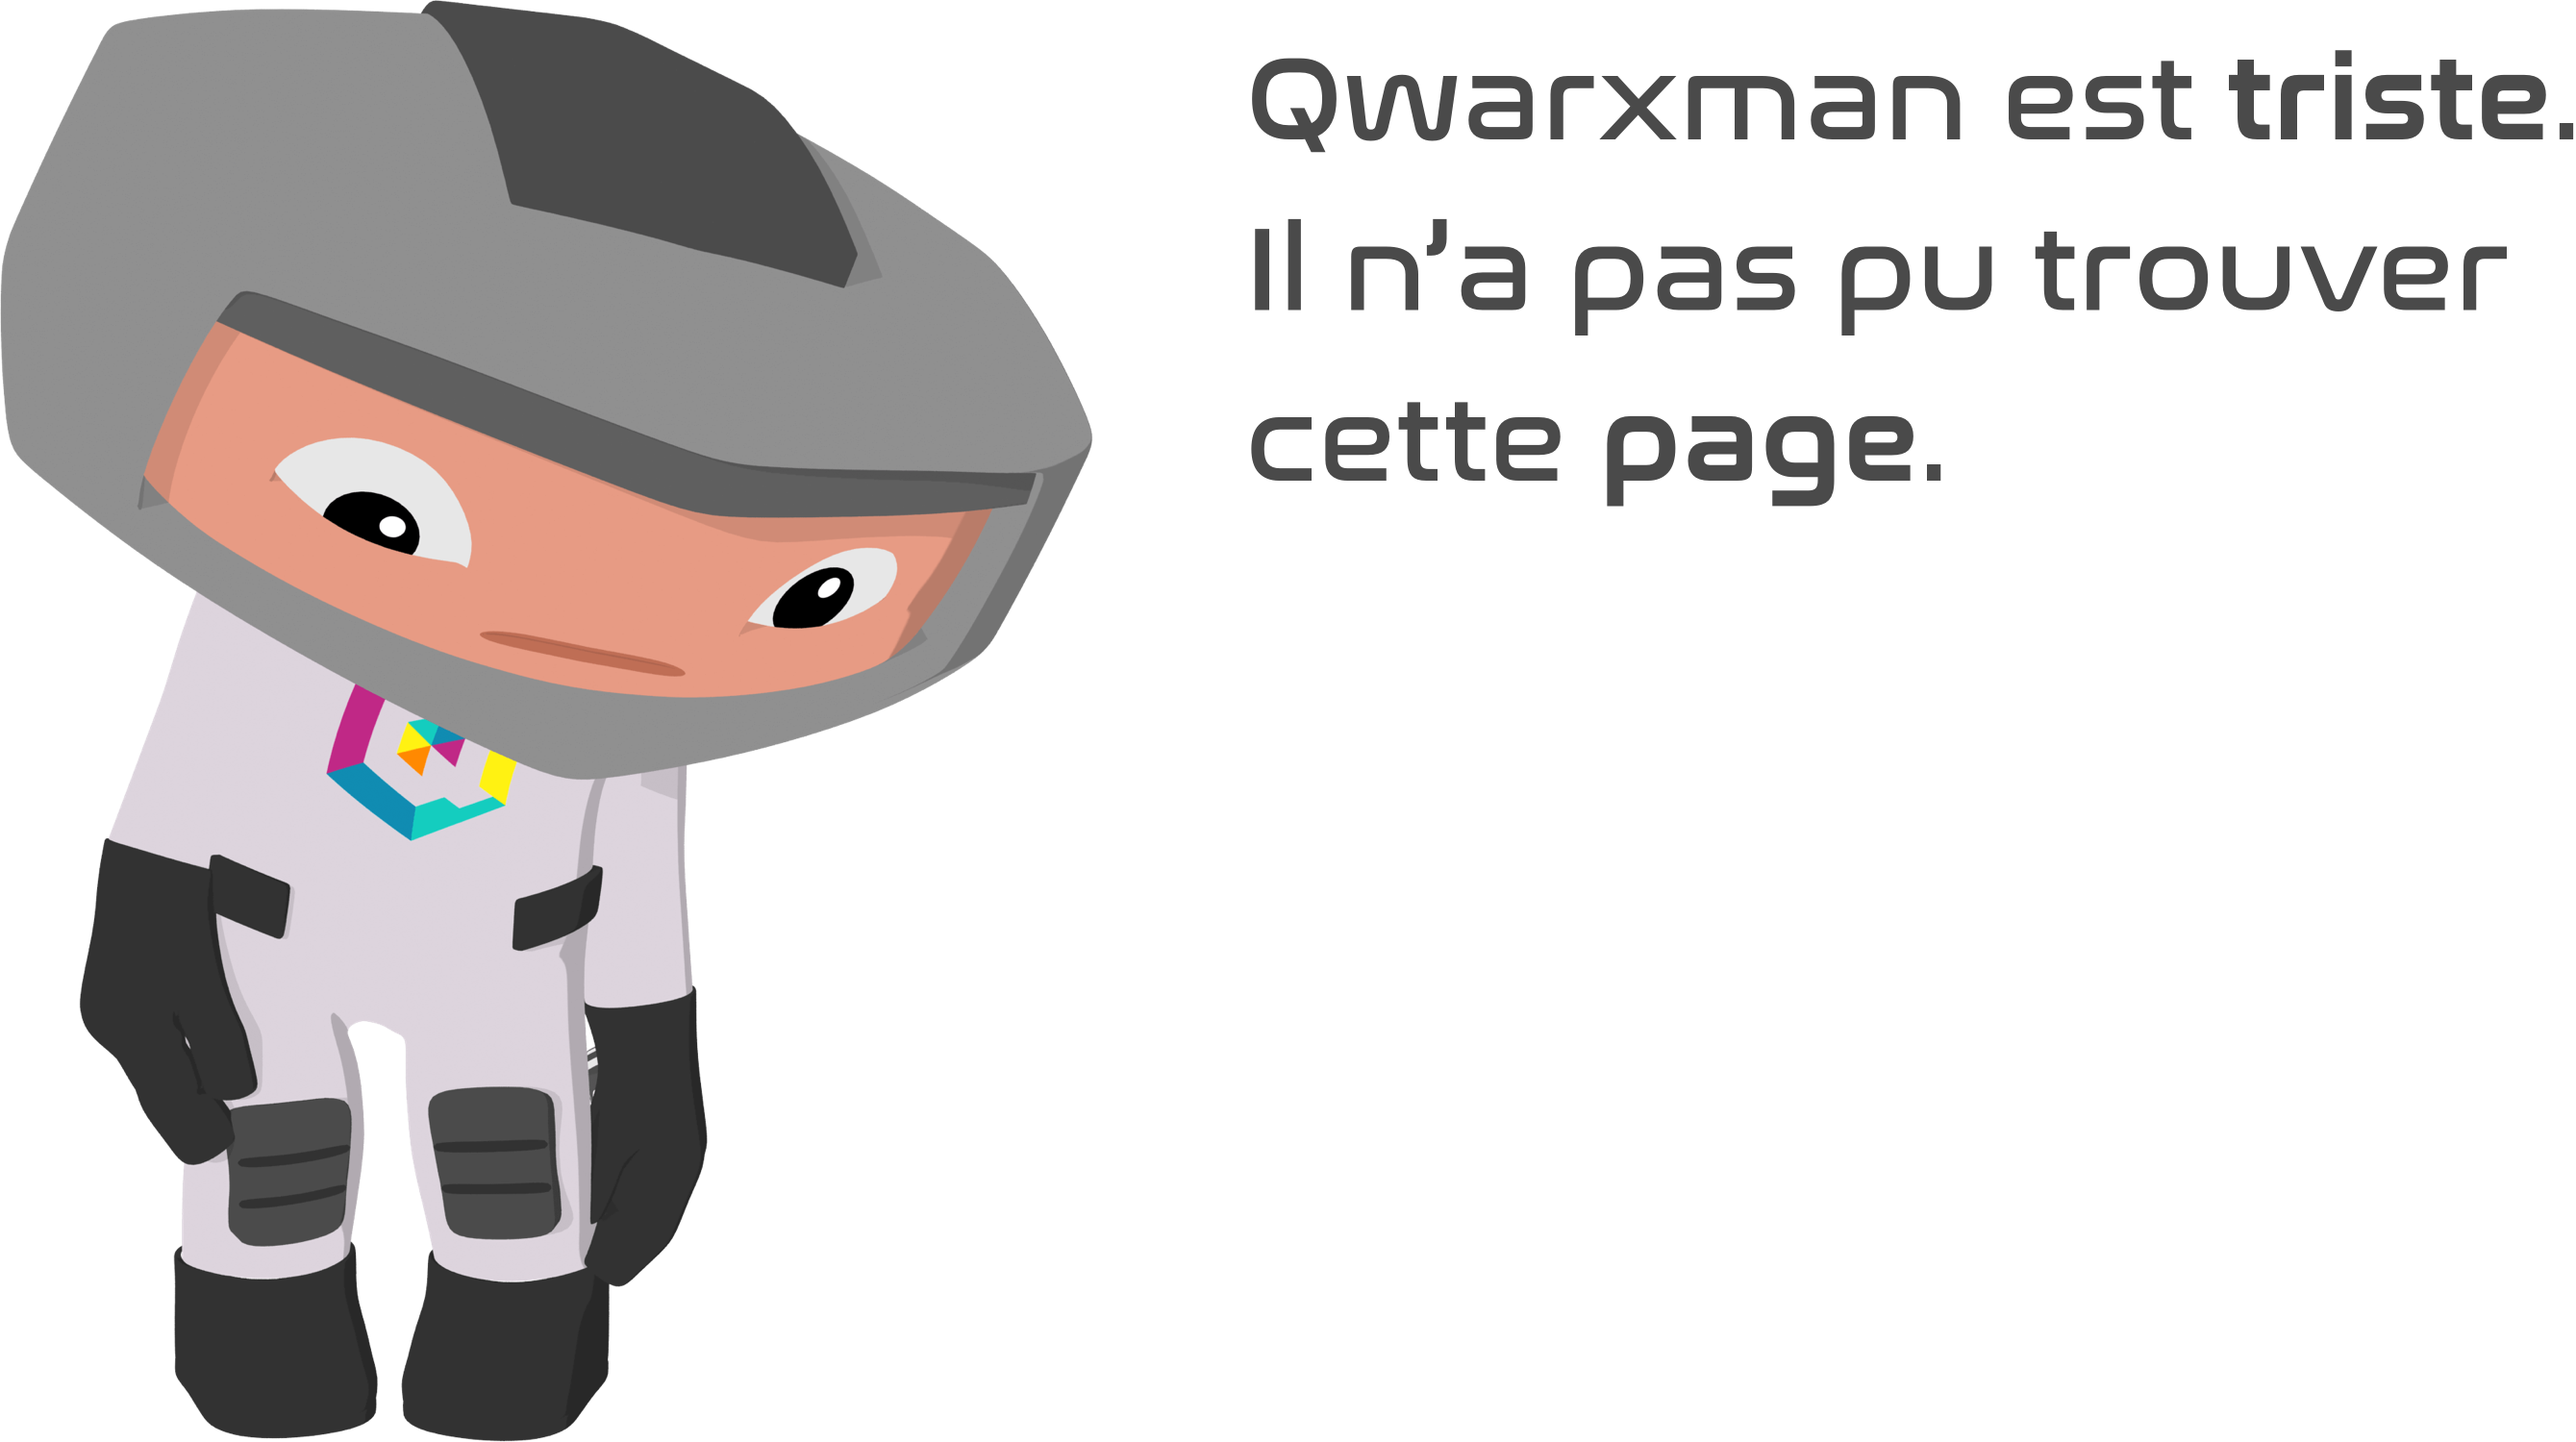
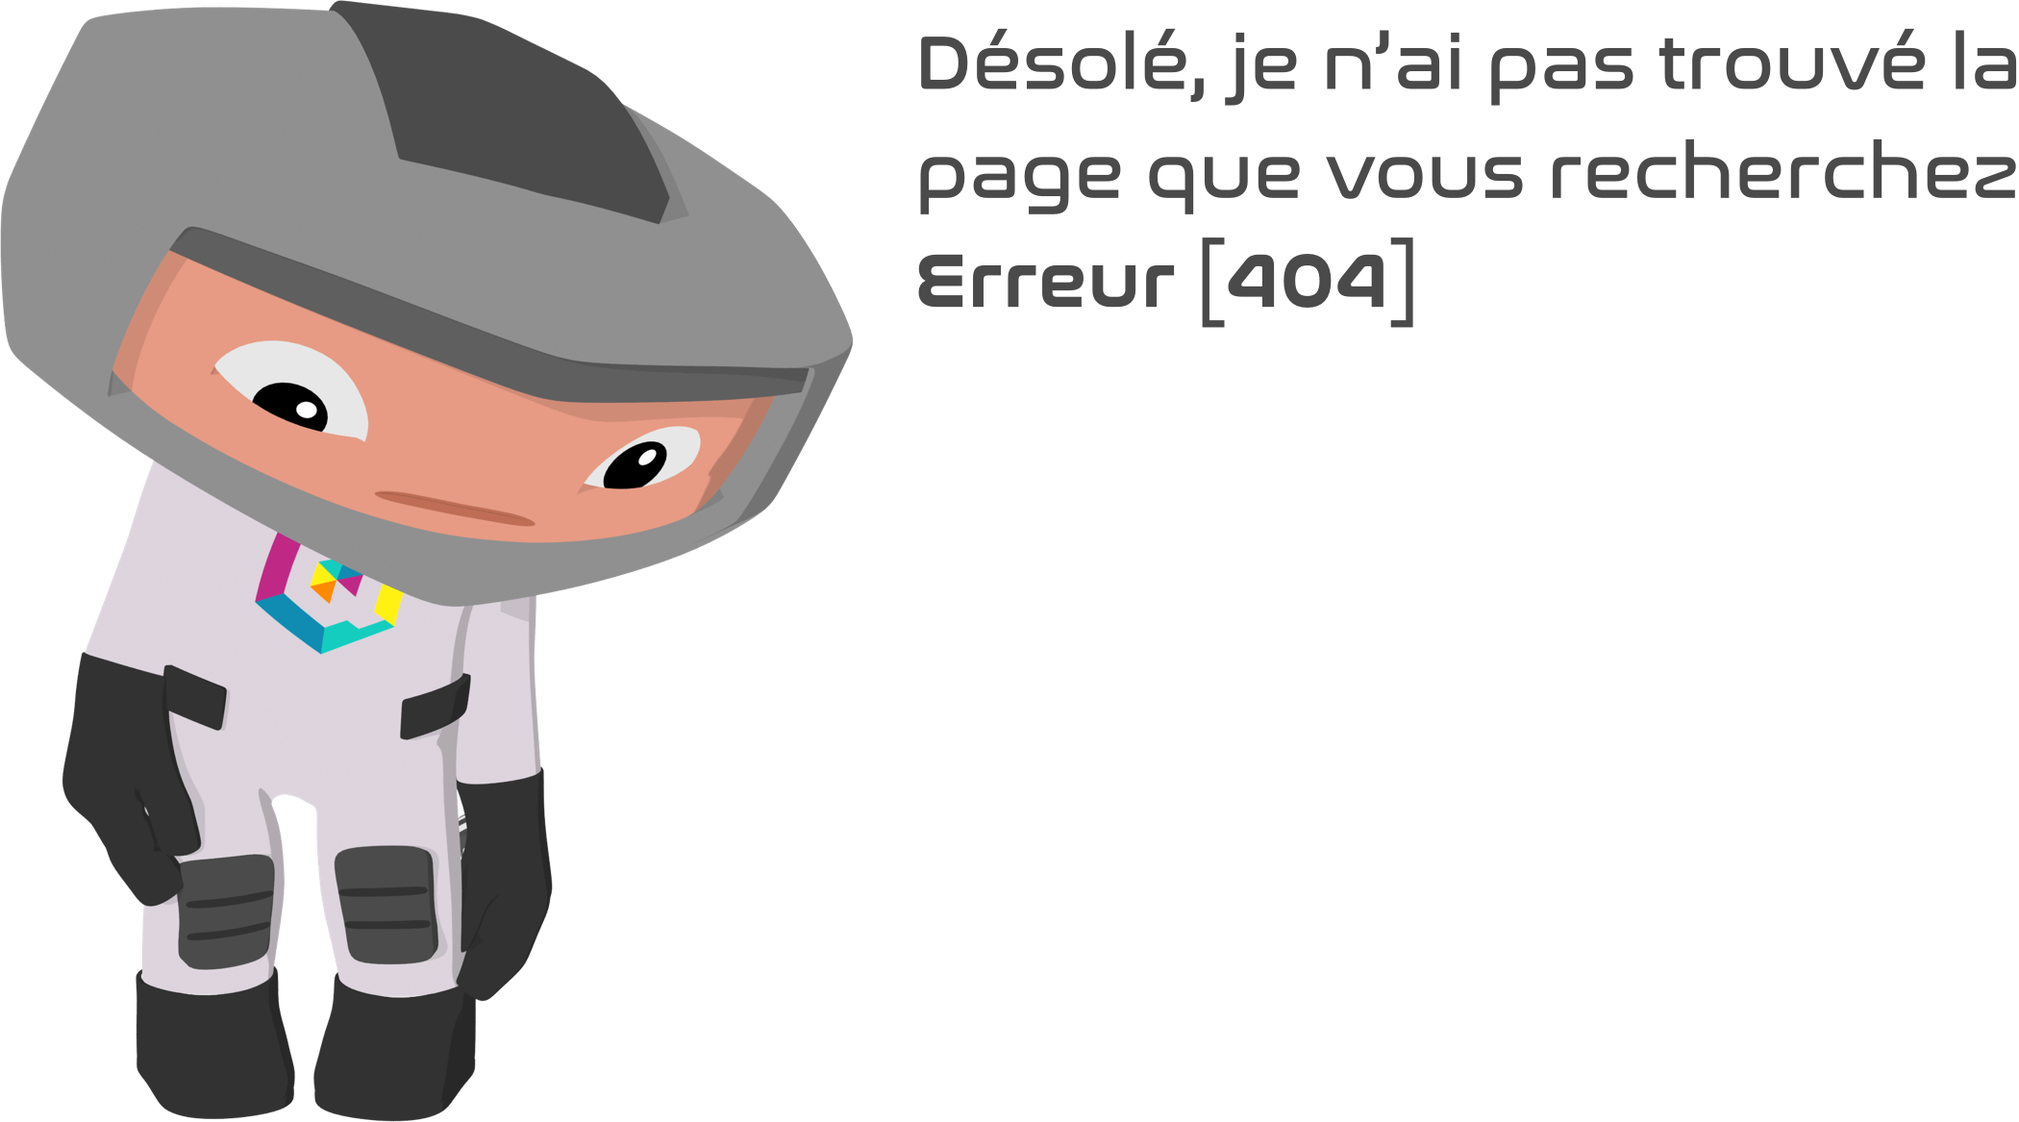
better 404

diff --git a/pages/_error.js b/pages/_error.js
@@ -8,41 +8,87 @@ export default class Error extends React.Component {
 
   render() {
     return (
-      <picture
-        style={{
-          display: "block",
-          marginLeft: "auto",
-          marginRight: "auto",
-          width: "50%"
-        }}
-      >
-        <source
-          media={`(min-width: 960px)`}
-          srcSet={`
+      <div style={{
+        height: 'calc(100vh - 100px)'
+      }}>
+        <table
+          id="wrapper"
+          style={{
+            width: "100%",
+            height: "100%",
+            margin: 0,
+            padding: 0,
+            border: 0
+          }}
+        >
+          <tr>
+            <td
+              style={{
+                veticalAlign: "middle",
+                textAlign: "center"
+              }}
+            >
+              <picture>
+                <source
+                  media={`(min-width: 960px)`}
+                  srcSet={`
           https://res.cloudinary.com/clactacom/image/upload/f_auto,q_auto,c_scale,w_700,dpr_1.0/qwarx-404.png,
           https://res.cloudinary.com/clactacom/image/upload/f_auto,q_auto,c_scale,w_700,dpr_2.0/qwarx-404.png 2x,
           https://res.cloudinary.com/clactacom/image/upload/f_auto,q_auto,c_scale,w_700,dpr_3.0/qwarx-404.png 3x
           `}
-        />
-        <source
-          media={`(max-width: 959px)`}
-          srcSet={`
+                />
+                <source
+                  media={`(max-width: 959px)`}
+                  srcSet={`
           https://res.cloudinary.com/clactacom/image/upload/f_auto,q_auto,c_scale,w_300,dpr_1.0/qwarx-404.png,
           https://res.cloudinary.com/clactacom/image/upload/f_auto,q_auto,c_scale,w_300,dpr_2.0/qwarx-404.png 2x,
           https://res.cloudinary.com/clactacom/image/upload/f_auto,q_auto,c_scale,w_300,dpr_3.0/qwarx-404.png 3x
           `}
-        />
-        <img
-          src={`
+                />
+                <img
+                  src={`
           https://res.cloudinary.com/clactacom/image/upload/f_auto,q_auto,c_scale,w_700,dpr_1.0/qwarx-404.png`}
-          srcSet={`
+                  srcSet={`
           https://res.cloudinary.com/clactacom/image/upload/f_auto,q_auto,c_scale,w_700,dpr_1.0/qwarx-404.png,
           https://res.cloudinary.com/clactacom/image/upload/f_auto,q_auto,c_scale,w_700,dpr_2.0/qwarx-404.png 2x,
           https://res.cloudinary.com/clactacom/image/upload/f_auto,q_auto,c_scale,w_700,dpr_3.0/qwarx-404.png 3x
           `}
-          alt={`erreur 404`}
-        />
-      </picture>
+                  alt={`erreur 404`}
+                />
+              </picture>
+              
+              <picture>
+                <source
+                  media={`(min-width: 960px)`}
+                  srcSet={`
+          https://res.cloudinary.com/clactacom/image/upload/f_auto,q_auto,c_scale,w_600,dpr_1.0/qwarx-back.png,
+          https://res.cloudinary.com/clactacom/image/upload/f_auto,q_auto,c_scale,w_600,dpr_2.0/qwarx-back.png 2x,
+          https://res.cloudinary.com/clactacom/image/upload/f_auto,q_auto,c_scale,w_600,dpr_3.0/qwarx-back.png 3x
+          `}
+                />
+                <source
+                  media={`(max-width: 959px)`}
+                  srcSet={`
+          https://res.cloudinary.com/clactacom/image/upload/f_auto,q_auto,c_scale,w_250,dpr_1.0/qwarx-back.png,
+          https://res.cloudinary.com/clactacom/image/upload/f_auto,q_auto,c_scale,w_250,dpr_2.0/qwarx-back.png 2x,
+          https://res.cloudinary.com/clactacom/image/upload/f_auto,q_auto,c_scale,w_250,dpr_3.0/qwarx-back.png 3x
+          `}
+                />
+                <img
+                  src={`
+          https://res.cloudinary.com/clactacom/image/upload/f_auto,q_auto,c_scale,w_600,dpr_1.0/qwarx-back.png`}
+                  srcSet={`
+          https://res.cloudinary.com/clactacom/image/upload/f_auto,q_auto,c_scale,w_600,dpr_1.0/qwarx-back.png,
+          https://res.cloudinary.com/clactacom/image/upload/f_auto,q_auto,c_scale,w_600,dpr_2.0/qwarx-back.png 2x,
+          https://res.cloudinary.com/clactacom/image/upload/f_auto,q_auto,c_scale,w_600,dpr_3.0/qwarx-back.png 3x
+          `}
+                  alt={`erreur 404`}
+                />
+              </picture>
+            </td>
+          </tr>
+        </table>
+      </div>
     );
   }
 }
